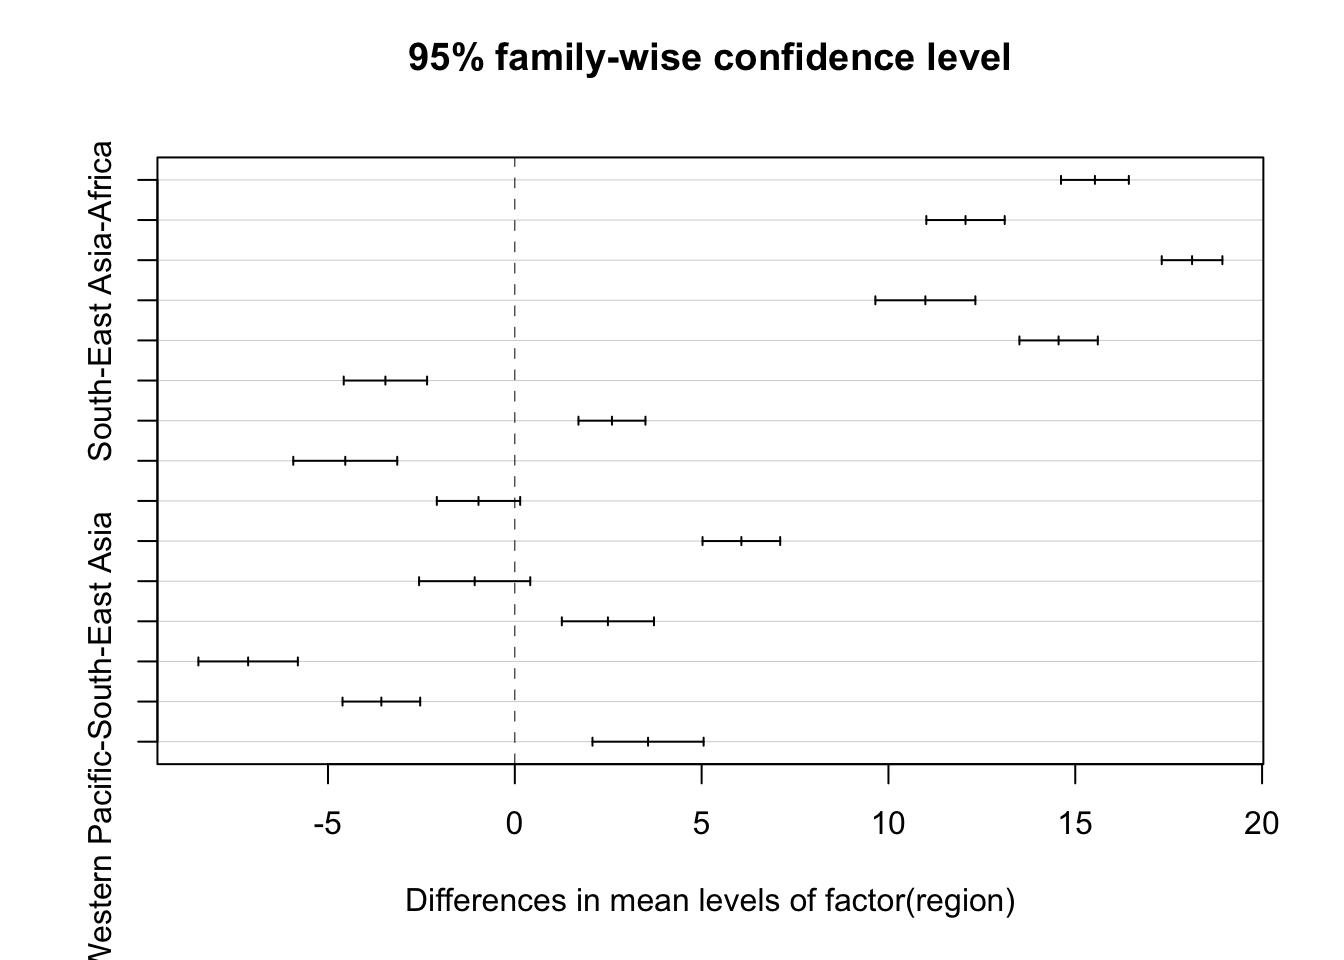
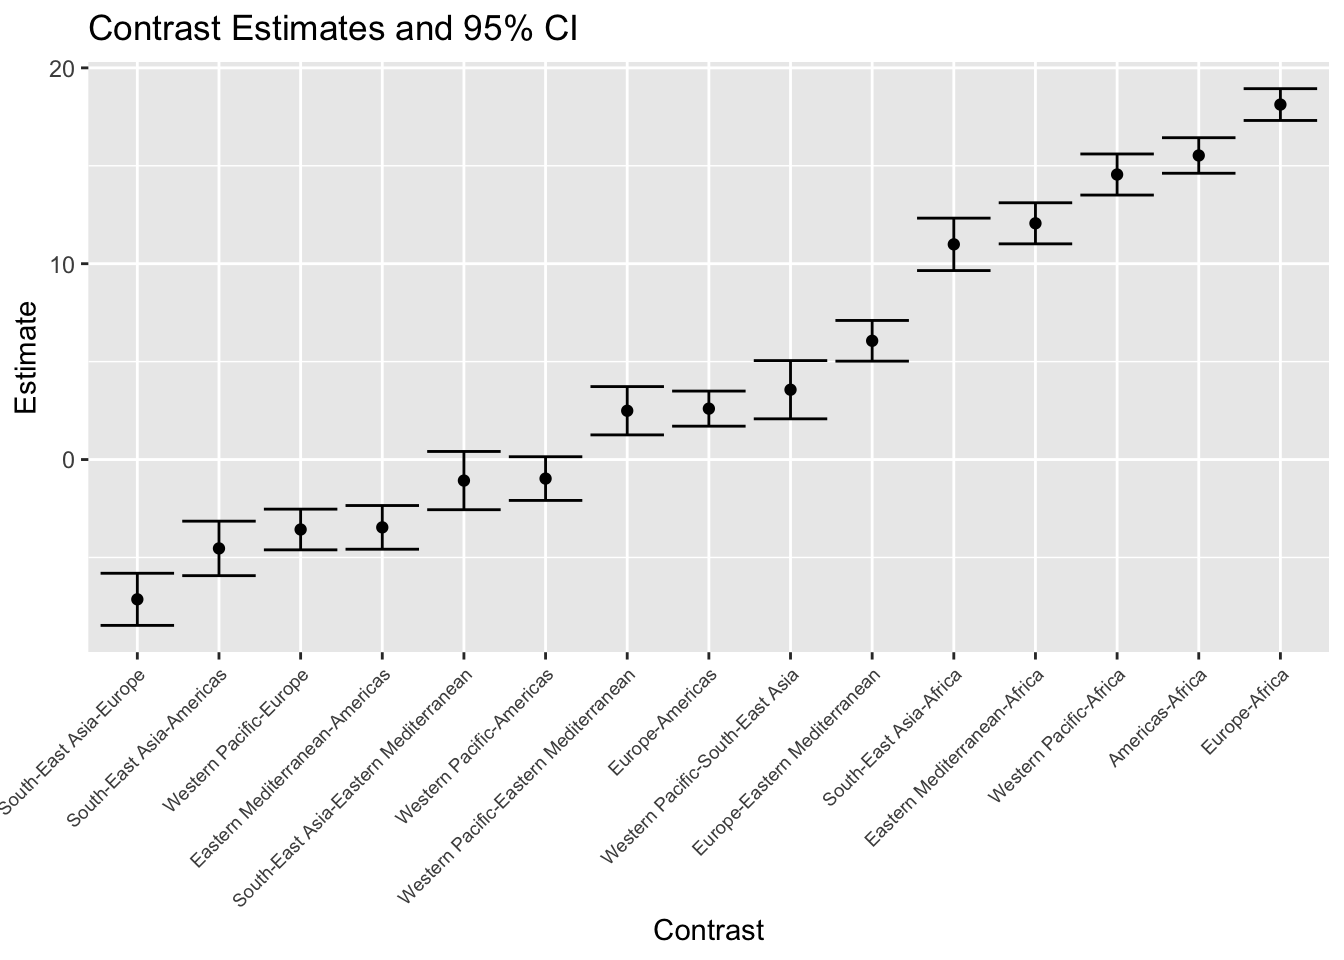
modified the tukey result plot

diff --git a/analysis.html b/analysis.html
@@ -868,9 +868,14 @@ broom::tidy(bonferroni_result) %&gt;%
 </div>
 <div id="tukeys-method" class="section level3">
 <h3>Tukey’s Method</h3>
-<pre class="r"><code>tukey_result &lt;- TukeyHSD(anova_result_1)
+<pre class="r"><code>tukey_result &lt;- TukeyHSD(anova_result_1) %&gt;% 
+  broom::tidy() %&gt;% 
+  select(contrast,estimate, conf.low,conf.high)
 
-plot(tukey_result)</code></pre>
+ggplot(tukey_result, aes(x = fct_reorder(contrast, estimate), y = estimate)) +
+  geom_point() +
+  geom_errorbar(aes(ymin = `conf.low`, ymax = `conf.high`)) +
+  labs(title = &quot;Contrast Estimates and 95% CI&quot;, ) + ylab(&quot;Estimate&quot;) + xlab(&quot;Contrast&quot;) + theme(axis.text.x = element_text(hjust = 1, angle = 45,size = 7))</code></pre>
 <p><img src="analysis_files/figure-html/unnamed-chunk-10-1.png" width="672" /></p>
  
 </div>
@@ -971,9 +976,15 @@ broom::tidy(bonferroni_result) %&gt;%
 </div>
 <div id="tukeys-method-1" class="section level3">
 <h3>Tukey’s Method</h3>
-<pre class="r"><code>tukey_result &lt;- TukeyHSD(anova_result_2)
+<pre class="r"><code>tukey_result &lt;- TukeyHSD(anova_result_2)%&gt;% 
+  broom::tidy() %&gt;% 
+  select(contrast,estimate, conf.low,conf.high)
 
-plot(tukey_result)</code></pre>
+
+ggplot(tukey_result, aes(x = fct_reorder(contrast, estimate), y = estimate)) +
+  geom_point() +
+  geom_errorbar(aes(ymin = `conf.low`, ymax = `conf.high`)) +
+  labs(title = &quot;Contrast Estimates and 95% CI&quot;, ) + ylab(&quot;Estimate&quot;) + xlab(&quot;Contrast&quot;) + theme(axis.text.x = element_text(hjust = 1, angle = 45,size = 7))</code></pre>
 <p><img src="analysis_files/figure-html/unnamed-chunk-13-1.png" width="672" /></p>
  
 </div>
